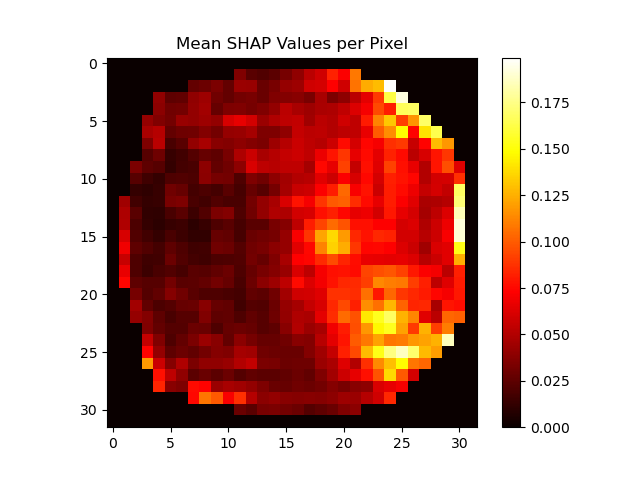
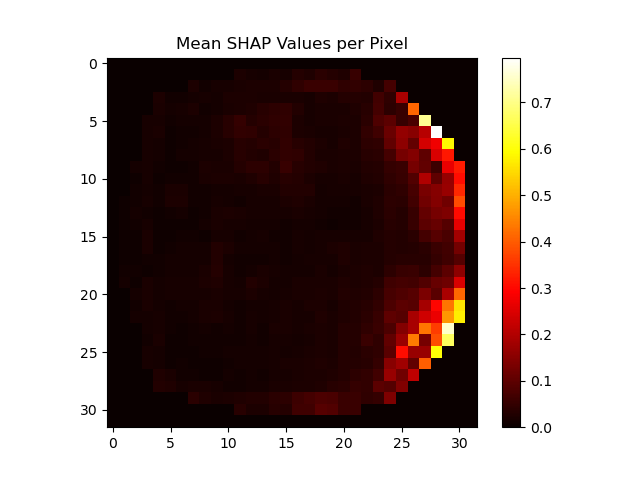
started on reducing shap still error when removing specific channel data

diff --git a/spatial.py b/spatial.py
@@ -214,7 +214,7 @@ def compute_alpha_power(eeg_data, sfreq=128):
     Returns:
         alpha_power: (n_samples, n_channels)
     """
-    n_samples, window_length, n_channels = eeg_data.shape
+    window_length = eeg_data.shape[1]
     
     alpha_low = 1
     alpha_high = 13
@@ -275,26 +275,34 @@ def azim_proj(pos):
     [r, elev, az] = cart2sph(pos[0], pos[1], pos[2])
     return pol2cart(az, math.pi / 2 - elev)
 
-def create_topo_map(channel_values, channel_names, grid_resolution=32):
+def create_topo_map(channel_values, channel_names, grid_resolution=32, reduced_channels=None):
     """
-    Create 2D topological maps using Clough-Tocher interpolation.
+    Create 2D (reduced) topological maps using cubic interpolation.
     
     Args:
-        channel_values: 1D array of alpha power values (n_channels,).
+        channel_values: array of alpha power values (windows, channel values).
         channel_names: List of channel names matching channel_values.
         grid_resolution: Size of output 2D map (grid_resolution x grid_resolution).
+        reduced_channels: List of channels to include in the map. If None, all channels are used.
         
     Returns:
         2D topological map (grid_resolution, grid_resolution).
     """
-    
     # get electrode positions from the channel names
     montage = mne.channels.make_standard_montage("standard_1020")
     locs_2d = []
-    for ch in channel_names:
-        if ch in montage.ch_names:
-            coords = montage.get_positions()["ch_pos"][ch]
-            locs_2d.append(azim_proj(coords))
+
+    # If reduced_channels is provided, create 2D locations for only those channels
+    if reduced_channels is None:
+        for ch in channel_names:
+            if ch in montage.ch_names:
+                coords = montage.get_positions()["ch_pos"][ch]
+                locs_2d.append(azim_proj(coords))
+    else:
+        for ch in reduced_channels:
+            if ch in montage.ch_names:
+                coords = montage.get_positions()["ch_pos"][ch]
+                locs_2d.append(azim_proj(coords))
     
     locs_2d_final = np.array(locs_2d)
 
@@ -306,7 +314,7 @@ def create_topo_map(channel_values, channel_names, grid_resolution=32):
     
     # Prepare the output images
     images = []
-    for i in range(channel_values.shape[0]):  # For each sample in the batch
+    for i in range(channel_values.shape[0]):  # For each window in the batch
         # Interpolate using cubic interpolation (like griddata with 'cubic' method)
         interpolated_image = griddata(locs_2d_final, channel_values[i, :], (grid_x, grid_y), method='cubic', fill_value=np.nan)
         images.append(interpolated_image)
@@ -323,20 +331,21 @@ def create_topo_map(channel_values, channel_names, grid_resolution=32):
 
 # Bandpass filter the data and segment the data into windows
 # extract the alpha power for each channel in each window and apply channel-wise normalization
+# create a topographical map for each window
 def preprocess(subject, channel_names):
     print("preprocess begin")
+    channel_values = []
     for trial in subject['trials']:
         eeg_data = trial['eeg']  # EEG data (NumPy array)
         trial['eeg'] = bandpass_filter(eeg_data, lowcut=1.0, highcut=45.0, fs=128)
         trial['eeg'] = segment_eeg_data(trial)
         trial['eeg'] = compute_alpha_power(trial['eeg']) # feature extraction
+        channel_values.append(trial['eeg']) # keep for later creation of reduced maps
         trial['eeg'] = normalize_data(trial['eeg'])
-
-        # create topo map for each window
         trial['eeg'] = create_topo_map(trial['eeg'], channel_names)
     
     print("preprocess complete")
-    return subject
+    return subject, channel_values
 
 # save image of a topographical map of the alpha power range of signals
 def save_topo_map_image(topo_map: np.ndarray,
@@ -622,6 +631,68 @@ def group_KUL_trials(subject):
     
     return X, y, groups
 
+def reduce_channels(subject, shap_values, channel_names, channel_values):
+    """
+    Reduce the number of channels in the SHAP values to a smaller set.
+    
+    Args:
+        shap_values: SHAP values for each channel.
+        channel_names: List of channel names.
+        channel_values: Original channel values. (trials, windows, channel alpha values)
+        
+    Returns:
+        subject: data with reduced channels.
+    """
+
+    # Get the pixel mapping for the channels
+    pixel_map = get_channel_pixel_mapping(channel_names)
+    channel_shap_importance = {}
+
+    # Rank channels based on their SHAP values
+    for channel, (y, x) in pixel_map.items():
+        # Get the SHAP value for the channel's pixel
+        channel_shap = shap_values[y, x]
+
+        channel_shap_importance[channel] = channel_shap
+    
+    sorted_channel_shap = sorted(channel_shap_importance.items(), key=lambda x: x[1], reverse=True)
+    
+    for i, (channel, score) in enumerate(sorted_channel_shap):
+        print(f"Rank {i+1}: Channel {channel} - SHAP Value: {score:.4f}")
+    
+    # Select the top channels based on SHAP values top 50
+    top_channels = [channel for channel, _ in sorted_channel_shap[:50]]
+
+    channel_values = np.array(channel_values)  # Convert to NumPy array
+
+    # Delete removed channels from the channel values data
+    for channel_idx, channel in enumerate(channel_names):
+        if channel not in top_channels:
+            for trial_idx, trial in enumerate(channel_values):
+                for window_idx, window in enumerate(trial):
+                    window = np.delete(window, channel_idx, axis=0)
+                    channel_values[trial_idx, window_idx] = window
+
+    # Create new images with only the top channels
+    for trial, value in zip(subject['trials'], channel_values):
+        trial['eeg'] = create_topo_map(value, channel_names, reduced_channels=top_channels)
+    
+    save_topo_map_image(
+        trial['eeg'][0],  # Use the first trial for the image
+        output_filepath=f"topo_map_{subject['name']}.png",
+        title=f"Top Channels for {subject['name']}",
+        cmap='viridis',
+        show_axis=False,
+        colorbar=True,
+        dpi=150
+    )
+
+    return subject
+    
+
+    
+
+
 if __name__ == "__main__":
     data_KUL = "./KUL"  # KUL data dir
     data_DTU = "./DTU"  # DTU data dir
@@ -652,7 +723,7 @@ if __name__ == "__main__":
     subject = subjects_data[int(subject_nr) - 1]  # Select subject by number
     print(f"Processing subject {subject['name']}...")
 
-    subject = preprocess(subject, channel_names)
+    subject, channel_values = preprocess(subject, channel_names)
 
     # Prepare data for cross-validation
     X, y, groups = [], [], []
@@ -673,7 +744,7 @@ if __name__ == "__main__":
 
     # leave one trial out cross-validation
     logo = LeaveOneGroupOut()
-    epochs = 20
+    epochs = 10
     best_train_loss = 2.0
     best_model = None
     results = []
@@ -735,10 +806,13 @@ if __name__ == "__main__":
     # Concatenate across folds
     final_shap_values = np.concatenate(all_shap_values, axis=0)
     final_test_inputs = np.concatenate(all_test_inputs, axis=0)
-    print(f"Final SHAP shape: {final_shap_values.shape}")
+    print(f"concat SHAP shape: {final_shap_values.shape}")
 
     # Average absolute SHAP across all samples
     mean_shap_per_pixel = np.mean(np.abs(final_shap_values), axis=0)
+    print(f"mean SHAP shape: {mean_shap_per_pixel.shape}")
+
+    reduce_channels(subject, mean_shap_per_pixel, channel_names, channel_values)
 
     plt.imshow(mean_shap_per_pixel, cmap='hot')
     plt.colorbar()
